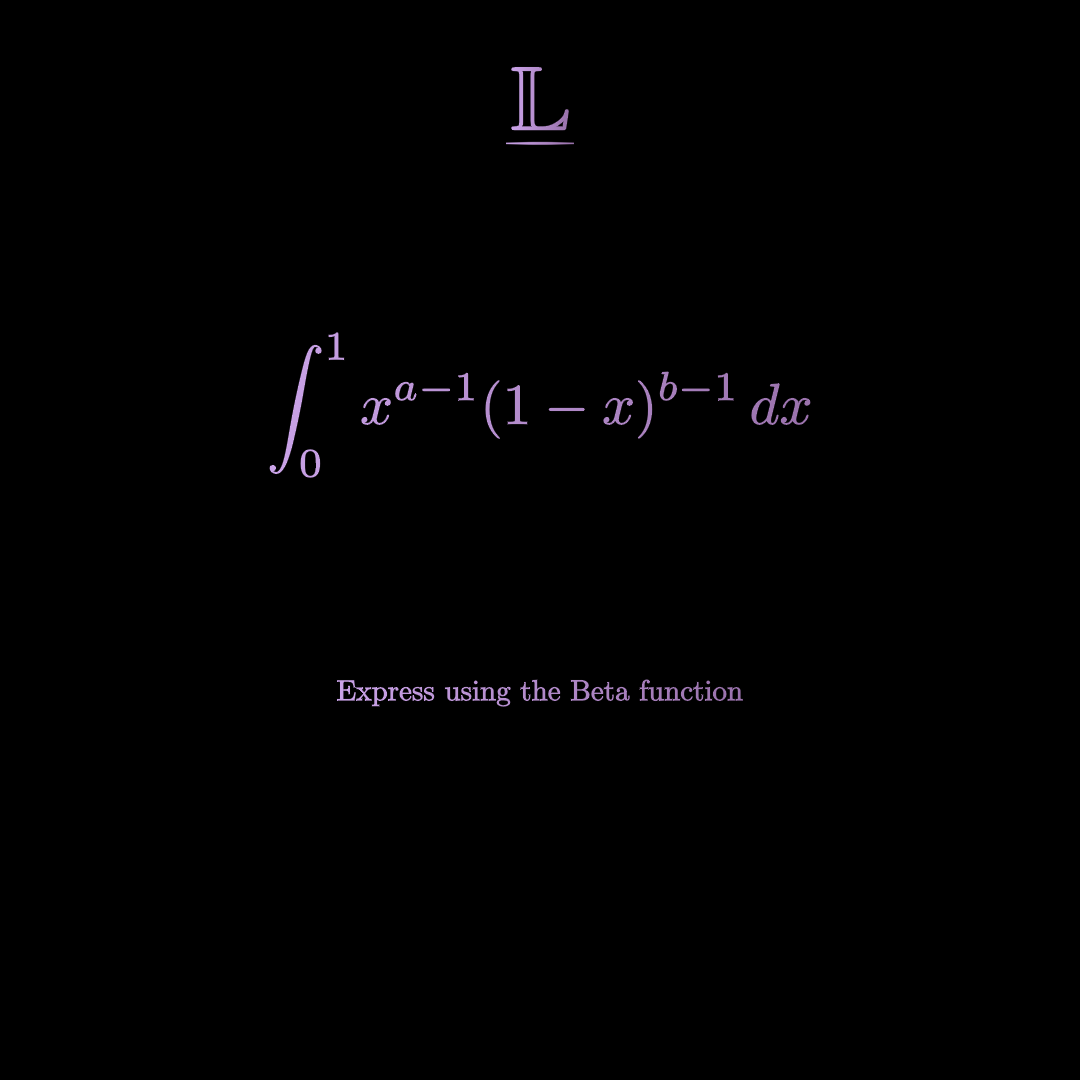
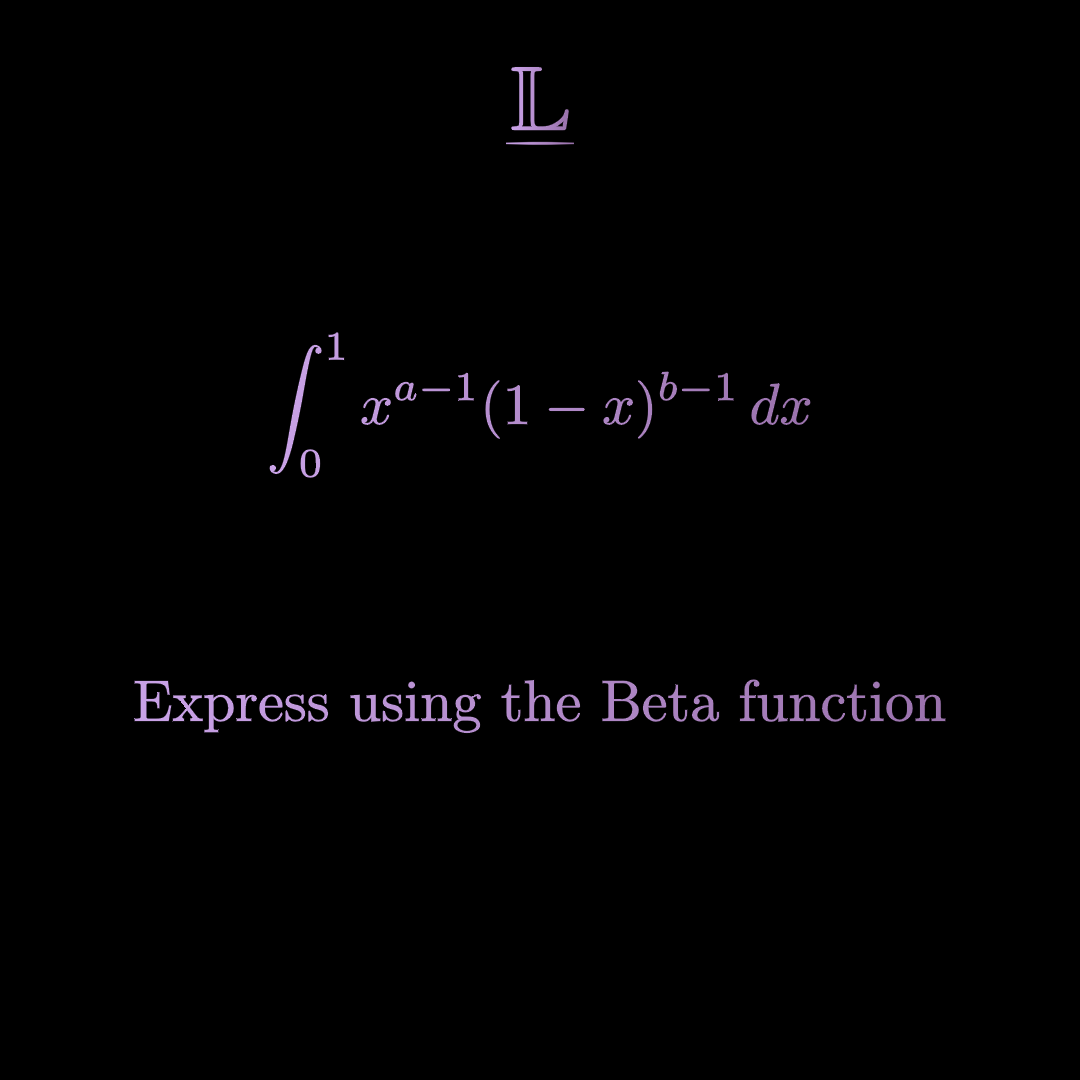
f

Changed region(s): [[0.1222, 0.6111, 0.8861, 0.6722]]

diff --git a/char.py b/char.py
@@ -356,7 +356,7 @@ class L(InteractiveScene):
 
         solve = TexText("Express using the Beta function")
         solve.set_color(color)
-        solve.set_width(3)
+        solve.set_width(6)
         solve.next_to(problem, DOWN, buff=LARGE_BUFF * 1.5)
         self.add(solve)
 
